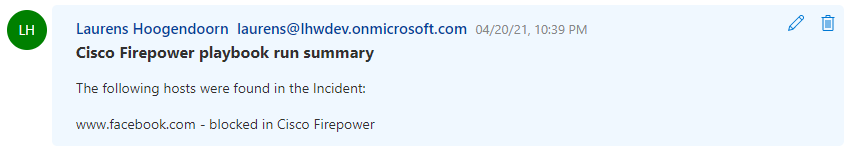
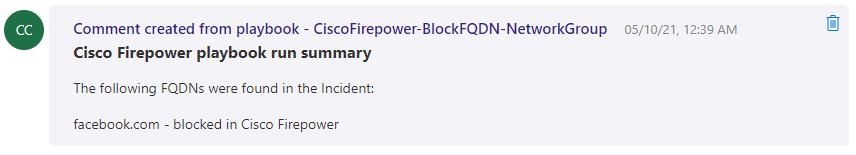
Modified BlockFQDN readme

diff --git a/Playbooks/CiscoFirepowerConnector/CiscoFirepower-BlockFQDN-NetworkGroup/readme.md b/Playbooks/CiscoFirepowerConnector/CiscoFirepower-BlockFQDN-NetworkGroup/readme.md
@@ -5,13 +5,14 @@
 This playbook allows blocking of FQDNs in Cisco Firepower, using a **Network Group object**. This allows making changes to a Network Group selected members, instead of making Access List Entries. The Network Group object itself should be part of an Access List Entry.
 
 When a new Sentinel incident is created, this playbook gets triggered and performs the following actions.
-1. For the hosts we check if they are already selected for the Network Group object
-2. For the hosts not already selected for the Network Group object we check if there is an existing FQDN object, if it does not exist we create it
-3. We add the FQDN object to the Network Group object, so it gets blocked
-3. Comment is added to Azure Sentinel incident
+1. For the URLs of the incident we extract the FQDN
+2. For the FQDNs we check if they are already selected for the Network Group object
+3. For the FQDNs not already selected for the Network Group object we check if there is an existing FQDN object in Cisco Firepower, if it does not exist we create it
+4. We add the FQDN object to the Network Group object, so it gets blocked
+5. Comment is added to Azure Sentinel incident
     ![Azure Sentinel comment](./Images/BlockFQDN-NetworkGroup-AzureSentinel-Comments.png)
 
-** Host is added to Cisco Firepower Network Group object:**
+** FQDN is added to Cisco Firepower Network Group object:**
 
 ![Cisco Firepower Network Group object](./Images/BlockFQDN-NetworkGroup-CiscoFirepowerAdd.png)
 
@@ -52,5 +53,5 @@ Once deployment is complete, you will need to authorize each connection.
 6.	Repeat steps for other connections such as Cisco Firepower (For authorizing the Cisco Firepower API connection, the username and password needs to be provided)
 
 #### b. Configurations in Sentinel
-1. In Azure sentinel analytical rules should be configured to trigger an incident with Host Entity.
+1. In Azure sentinel analytical rules should be configured to trigger an incident with URL Entity.
 2. Configure the automation rules to trigger this playbook
